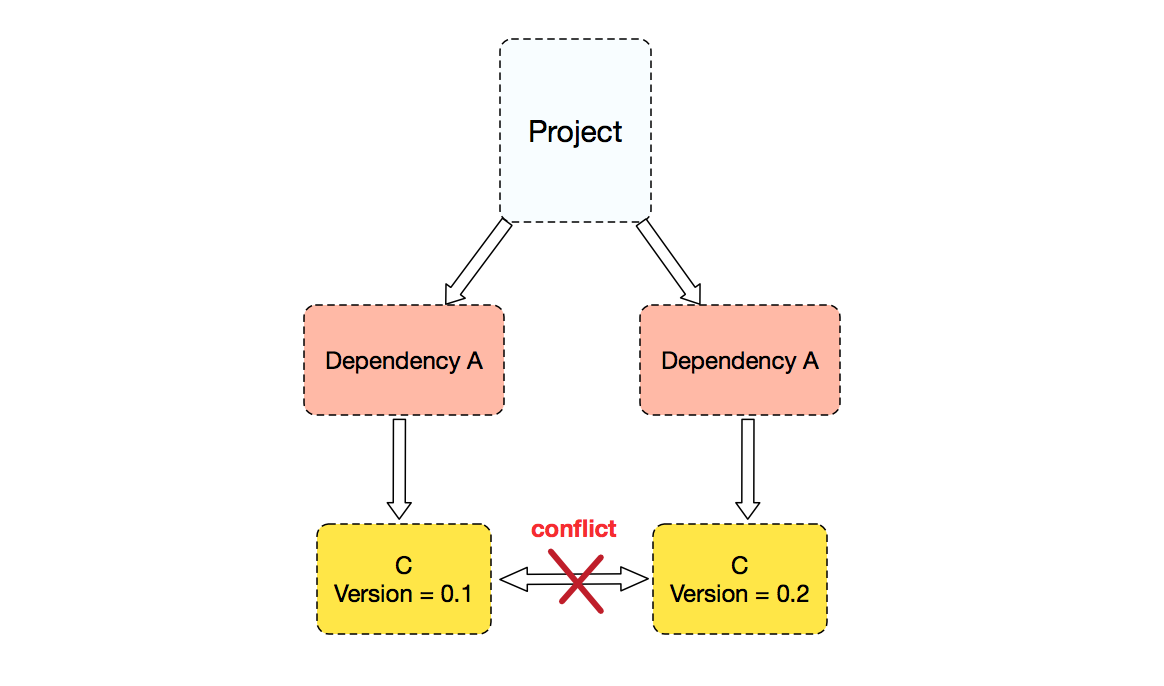
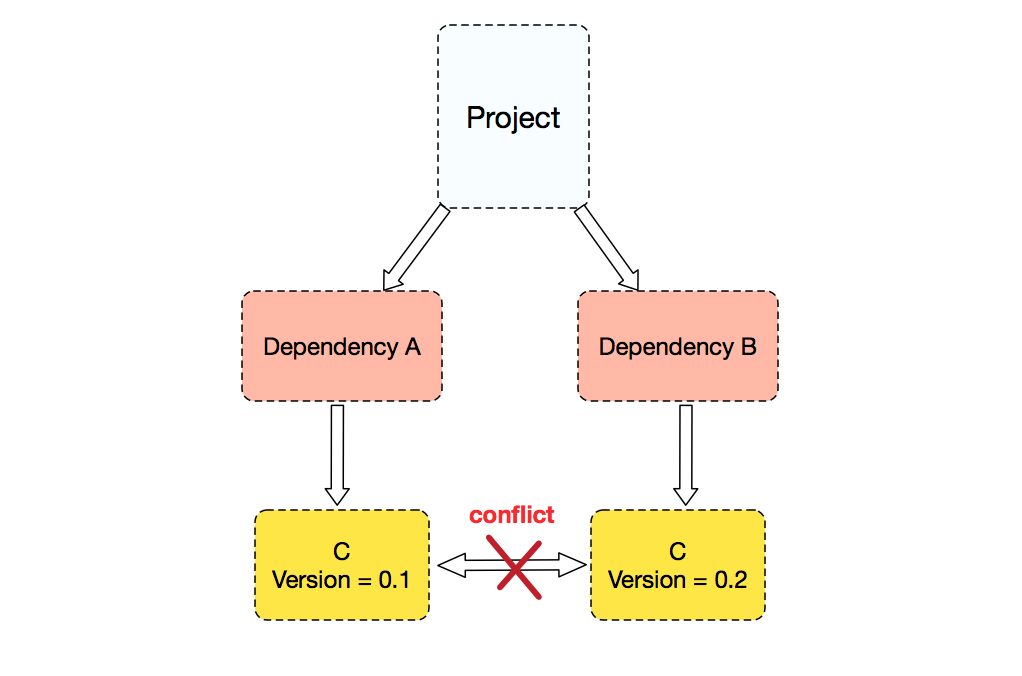
edit resource

Changed region(s): [[0.2123, 0.2796, 0.7886, 0.932], [0.455, 0.1553, 0.5763, 0.2175], [0.4247, 0.0311, 0.5763, 0.0621]]

diff --git a/README.md b/README.md
@@ -15,9 +15,9 @@ for quick start and detail information.
 
 In Java world, dependency is always a problem, and can cause various errors, such as `LinkageError`, `NoSuchMethodError` etc. There are many ways to solve the dependency problems, the Spring Boot's way is using a dependency management to manage all the dependencies, make sure that all the dependencies in the dependency management will not conflict and can work pretty well. This is quite a simple and efficient way, it can cover most scenario, but there is some exceptions.
 
-For example, there is a project that need protobuf version 2 and protobuf version 3, ant because protobuf version 3 is not compatible with version 2, so the project can not simply upgrade the protobuf to version 3 to solve the problem. There is same problem for hessian version 3 and version 4.
+For example, there is a project that need protobuf version 2 and protobuf version 3, and because protobuf version 3 is not compatible with version 2, so the project can not simply upgrade the protobuf to version 3 to solve the problem. There is same problem for hessian version 3 and version 4.
 
-To cover the exceptions, we need to introduce a classloader-isolation way to the problem, make different version of a jar loaded by different classloader. There are many framework that can do classloader isolation, perhaps the most famous one is OSGi, but OSGi classloader schema is too complex, beside classloader-isolation, it is have ability to do hot deploy and a lot of other functionalities there we actually don't want.
+To cover the exceptions, we need to introduce a classloader-isolation way to the problem, make different version of a jar loaded by different classloader. There are many framework that can do classloader isolation, perhaps the most famous one is OSGi, but OSGi classloader schema is too complex, beside classloader-isolation, it also has ability to do hot deploy and a lot of other functionalities there we actually don't want.
 
 So this is the origin of SOFA Ark, it wants to use a light-weight classloader isolation mechanism to  solve the problem that Spring Boot did not solve. And just a remind that SOFA Ark is not bind to Spring Boot, actually it is a more general classloader isolation framework that can be used with any other frameworks too.
 
@@ -29,14 +29,14 @@ There are three concepts in SOFA Ark: `Ark Container`, `Ark-Plugin` and `Ark-Biz
 
 First of all, we explain what roles these concepts play;
 
-+ `Ark Container`: It's the runtime-manager of total framework; it will be startup in the first place, then it resolves `Ark Plugin` and `Ark Biz` in classpath and deploys them.
++ `Ark Container`: It's the runtime-manager of total framework; it will startup in the first place, then it resolves `Ark Plugin` and `Ark Biz` in classpath and deploys them.
 
 + `Ark Plugin`: A fat jar packaged by `sofa-ark-plugin-maven-plugin`, generally it would bring with a class-index configuration which describes what class would be exported and imported. `Ark Plugin` can resolve classes from each other.
 
 + `Ark Biz`: A fat jar packaged by `sofa-ark-maven-plugin`, it mainly contains all staff what a project need in runtime. `Ark Biz` can resolve classes form `Ark Plugin`, but not inverse.
 
 In runtime, `Ark Container` would automatically recognise `Ark-Plugin` and `Ark-Biz` in classpath, and load them with independent classloader. According to configurations brought by `Ark Plugin` and `Ark Biz`, `Ark Container` would build a class-index table, so they can be 
-isolated well. For example, if a project have two dependencies of A and B, but A depends on C(version=0.1) and B depends on C(version=0.2), so conflicts maybe emerge. 
+isolated well. For example, if a project have two dependencies of A and B, but A depends on C (version = 0.1) and B depends on C (version = 0.2), so conflicts maybe emerge. 
 
 ![conflict](resource/SOFA-Ark-Conflict.png)
 
